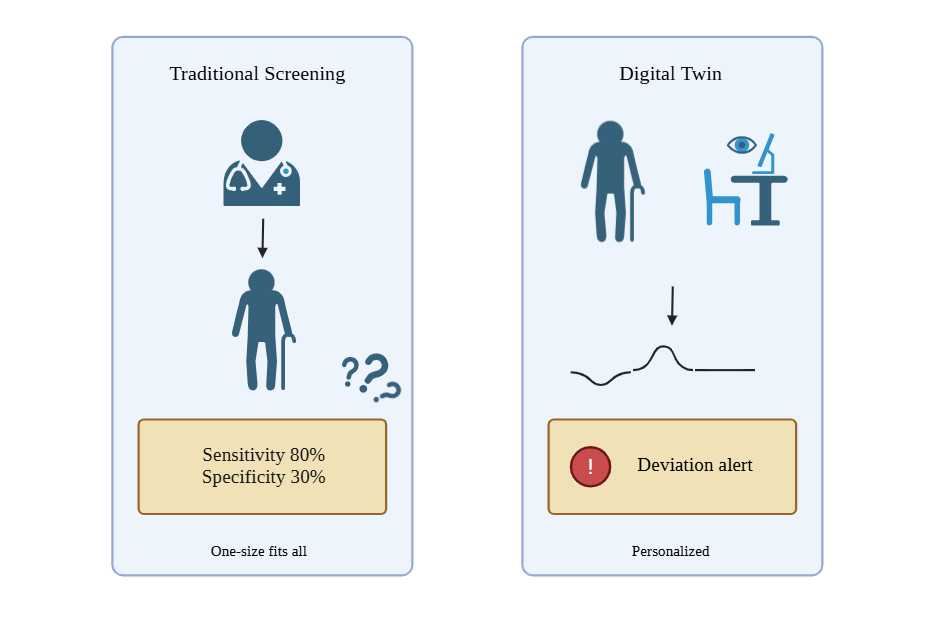
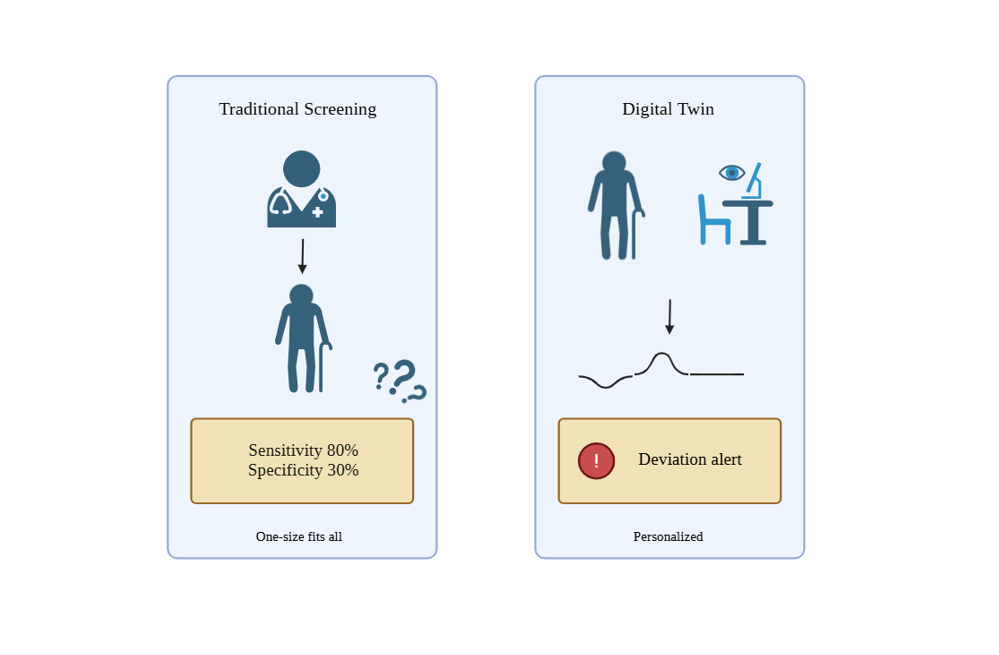
tilføj nye projekter

diff --git a/index.html b/index.html
@@ -164,8 +164,8 @@
                 </div>
 
                 <!-- Projekt 3 -->
-                <div class="project-card project-extra reveal reveal-delay-3">
-                    <div class="project-card-img project-card-placeholder">✦</div>
+                <div class="project-card project-extra project-card--clickable reveal reveal-delay-3" onclick="openImgLightbox('yelpreview.png')">
+                    <img src="yelpreview.png" class="project-card-img" alt="Yelp Reviews">
                     <h3 class="project-card-title">Scalable Data Processing: Yelp Reviews & Authenticity</h3>
                     <p class="project-takeaway">Projektet lærte mig at arbejde med data i skala.</p>
                     <p class="project-card-desc">Analyserede næsten 7 millioner restaurantanmeldelser med tekstanalyse og statistiske test for at undersøge, om ikke-vestlige restauranter omtales anderledes end europæiske. Projektet lærte mig, at et ord ikke betyder noget uden konteksten det står i. Jeg brugte PySpark til at håndtere datamængden.
@@ -175,29 +175,28 @@
                 </div>
 
                 <!-- Projekt 4 (skjult til start) -->
-                <div class="project-card project-extra hidden-project">
-                    <div class="project-card-img project-card-placeholder">✦</div>
+                <div class="project-card project-extra hidden-project project-card--clickable" onclick="openImgLightbox('contraction-hierarchies.png')">
+                    <img src="contractionh.png" class="project-card-img" alt="Contraction Hierarchies">
                     <h3 class="project-card-title">Efficient Route Planning: Contraction Hierarchies</h3>
                     <p class="project-takeaway">Projektet lærte mig at afveje forberedelsestid mod søgehastighed i algoritmisk design.</p>
-                    <p class="project-card-desc">Vi implementerede tre forskellige algoritmer til at finde korteste rute i det danske vejnetværk og testede dem på 1000 tilfældige rejser. Den bedste algoritme var 12 gange hurtigere end standard-versionen, fordi den "forbereder" vejkortet på forhånd og tilføjer smarte genveje - lidt ligesom Google Maps.
+                    <p class="project-card-desc">Vi implementerede tre forskellige algoritmer til at finde korteste rute i det danske vejnetværk og testede dem på 1000 tilfældige rejser. Den bedste algoritme var 12 gange hurtigere end standard-versionen, fordi den forbereder vejkortet på forhånd og tilføjer smarte genveje - lidt ligesom Google Maps.
                     </p>
                     <span class="project-tag">Algoritmer & Grafteori</span>
                 </div>
 
                 <!-- Projekt 5 (skjult til start) -->
-                <div class="project-card project-extra hidden-project">
-                    <div class="project-card-img project-card-placeholder">✦</div>
+                <div class="project-card project-extra hidden-project project-card--clickable" onclick="openImgLightbox('skewed-bst.png')">
+                    <img src="rankselect.png" class="project-card-img" alt="Skewed Binary Search Tree">
                     <h3 class="project-card-title">Skewed Binary Search Tree & Rank-Select Structures</h3>
                     <p class="project-takeaway">Projektet lærte mig at designe eksperimenter der kan besvare det spørgsmål man stiller.</p>
-                    <p class="project-card-desc">Vi undersøgte hvordan man organiserer og søger i store mængder data så hurtigt som muligt. Ved at justere én enkelt parameter i datastrukturen fandt vi en variant der var hurtigere end det, litteraturen anbefalede som optimalt. Vi testede med over 400 automatiserede tests og kørte systematiske hastighedsmålinger op til datasæt på 268 millioner elementer. Resultatet modsagde den teoretiske forventning, hvilket krævede at vi tænkte nøje over hvad vi egentlig målte og hvorfor. Projektet handlede i bund og grund om at lade målinger vinde over antagelser.
-                    </p>
+                    <p class="project-card-desc">Vi undersøgte hvordan man organiserer og søger i store mængder data så hurtigt som muligt. Ved at justere én enkelt parameter fandt vi en variant der var hurtigere end det, faglitteraturen peger på som optimal.<span class="desc-more" id="bst-more" style="display:none"> Vi testede med over 400 automatiserede tests og kørte systematiske hastighedsmålinger op til datasæt på 268 millioner elementer. Resultatet modsagde den teoretiske forventning, hvilket krævede at vi tænkte nøje over hvad vi egentlig målte og hvorfor. Konklusionen var mindre om datastrukturer og mere om metode: man er nødt til at måle sig frem.</span> <button class="read-more-btn" id="bst-toggle" onclick="event.stopPropagation(); var more = document.getElementById('bst-more'); var open = more.style.display !== 'none'; more.style.display = open ? 'none' : 'inline'; this.textContent = open ? 'Læs mere...' : 'Læs mindre...';">Læs mere...</button></p>
                     <a href="https://github.com/grli02/skewed-bst-and-rank-select" class="project-link" target="_blank">Se koden på GitHub →</a>
                     <span class="project-tag">Algoritmer & Datastrukturer</span>
                 </div>
 
                 <!-- Projekt 6 (skjult til start) -->
-                <div class="project-card project-extra hidden-project">
-                    <div class="project-card-img project-card-placeholder">✦</div>
+                <div class="project-card project-extra hidden-project project-card--clickable" onclick="openImgLightbox('searchengine.png')">
+                    <img src="searchengine.png" class="project-card-img" alt="Search Engine">
                     <h3 class="project-card-title">Search Engine</h3>
                     <p class="project-takeaway">Projektet gav mig erfaring med Git-baseret samarbejde og testdrevet udvikling i et team.</p>
                     <p class="project-card-desc">Et søgesystem bygget i Java i et team på fire med fokus på hurtig søgning og rangering af resultater efter relevans. Jeg bidrog primært til systemdesign og test, hvor vi opnåede 97% kodedækning med JUnit og arbejdede struktureret med Git og versionsstyring gennem hele projektet.
@@ -474,25 +473,22 @@
 
             if (isOpen) {
                 extras.forEach(el => {
-                    el.style.maxHeight = el.scrollHeight + 'px';
-                    requestAnimationFrame(() => {
-                        el.style.maxHeight = '0';
-                        el.style.opacity = '0';
-                    });
-                    setTimeout(() => el.style.display = 'none', 450);
+                    el.style.opacity = '0';
+                    el.style.transform = 'translateY(12px)';
+                    setTimeout(() => el.style.display = 'none', 400);
                 });
                 btn.classList.remove('open');
                 arrow.style.transform = 'rotate(0deg)';
                 txt.textContent = 'Vis flere projekter';
             } else {
-                extras.forEach(el => {
+                extras.forEach((el, i) => {
                     el.style.display = 'flex';
-                    el.style.maxHeight = '0';
                     el.style.opacity = '0';
-                    requestAnimationFrame(() => {
-                        el.style.maxHeight = el.scrollHeight + 'px';
+                    el.style.transform = 'translateY(12px)';
+                    setTimeout(() => {
                         el.style.opacity = '1';
-                    });
+                        el.style.transform = 'translateY(0)';
+                    }, i * 80);
                 });
                 btn.classList.add('open');
                 arrow.style.transform = 'rotate(180deg)';

diff --git a/style.css b/style.css
@@ -524,7 +524,7 @@
 
         .project-card-title {
             font-family: 'Cormorant Garamond', serif;
-            font-size: 1.4rem;
+            font-size: 1.2rem;
             font-weight: 400;
             color: var(--ink);
             margin-bottom: 0.5rem;
@@ -550,6 +550,7 @@
             background: rgba(200, 149, 108, 0.12);
             color: var(--earth);
             margin-top: 0.5rem;
+            align-self: flex-start;
         }
 
         .project-takeaway {
@@ -571,6 +572,22 @@
         }
 
         .project-link:hover {
+            text-decoration: underline;
+        }
+
+        .read-more-btn {
+            display: inline-block;
+            font-size: 0.85rem;
+            color: #2b3a86;
+            background: none;
+            border: none;
+            padding: 0;
+            cursor: pointer;
+            font-family: inherit;
+            margin-bottom: 0.5rem;
+        }
+
+        .read-more-btn:hover {
             text-decoration: underline;
         }
 
@@ -1093,11 +1110,9 @@
 /* Skjulte projekter */
 .hidden-project {
     display: none;
-    overflow: hidden;
-    max-height: 0;
     opacity: 0;
-    transition: max-height 0.45s cubic-bezier(0.25, 0.46, 0.45, 0.94),
-                opacity 0.35s ease;
+    transform: translateY(12px);
+    transition: opacity 0.4s ease, transform 0.4s ease;
 }
 
 /* Vis mere / Vis mindre knap */